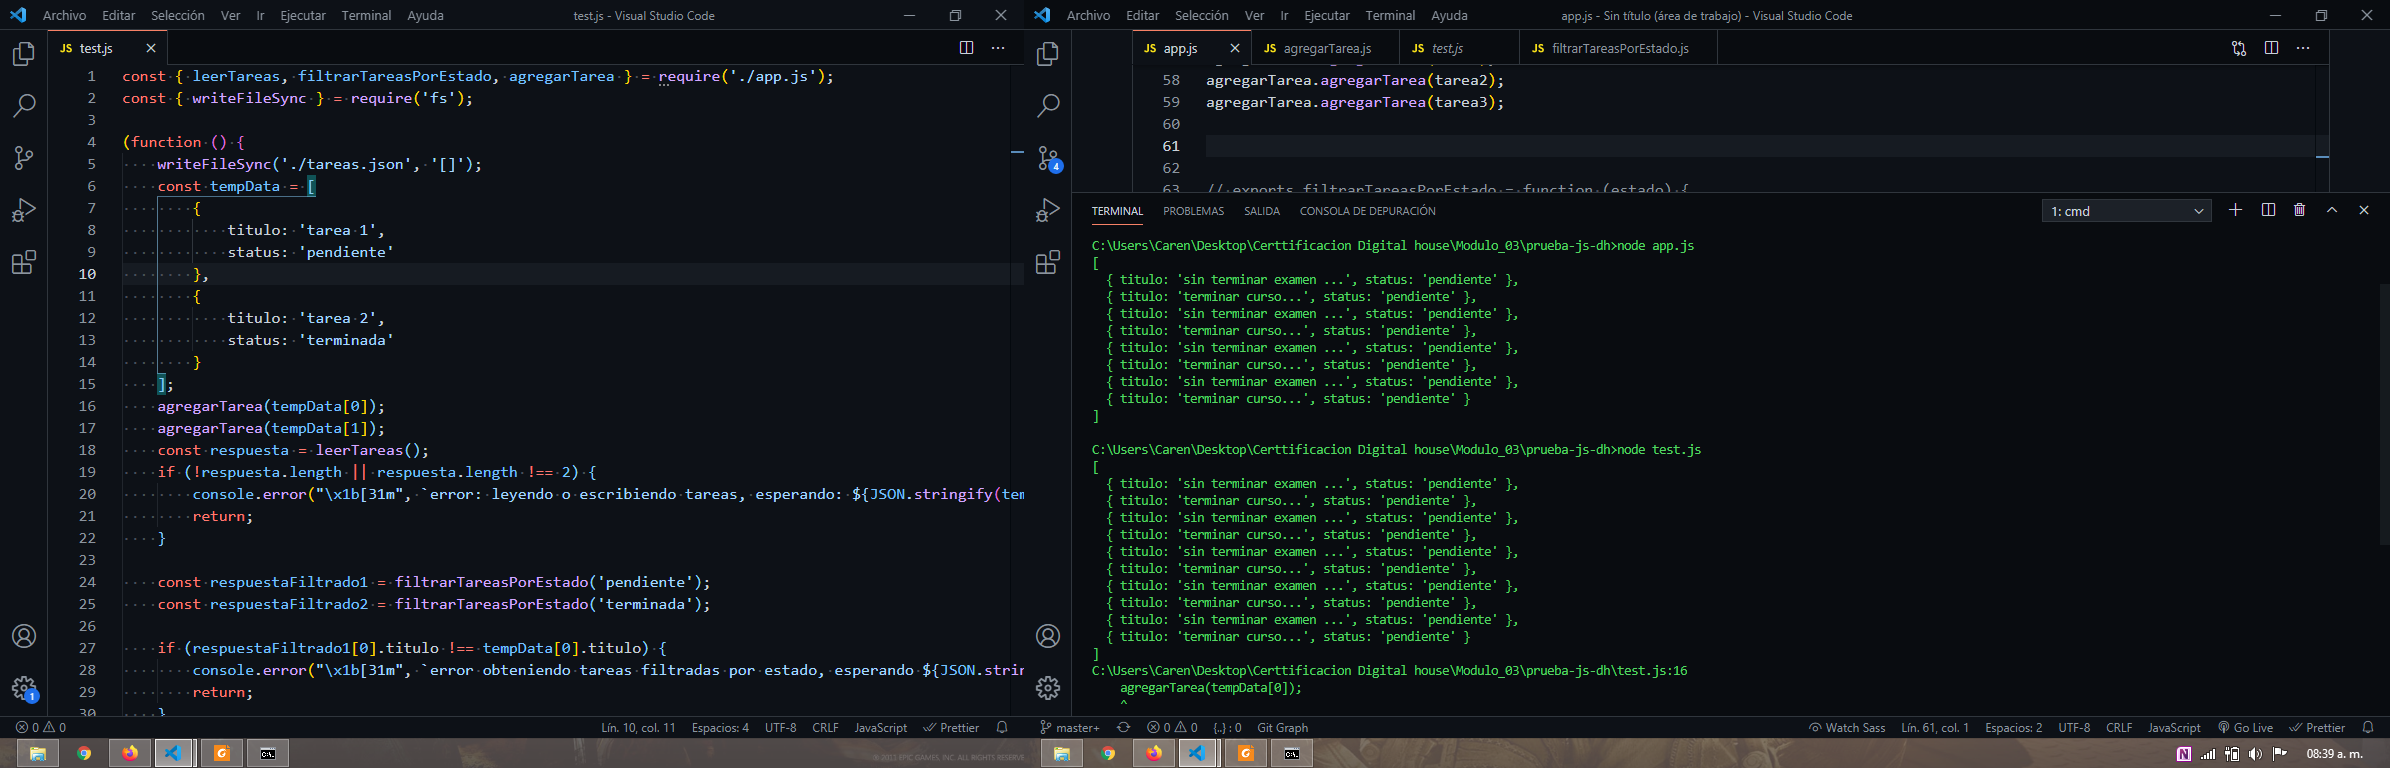
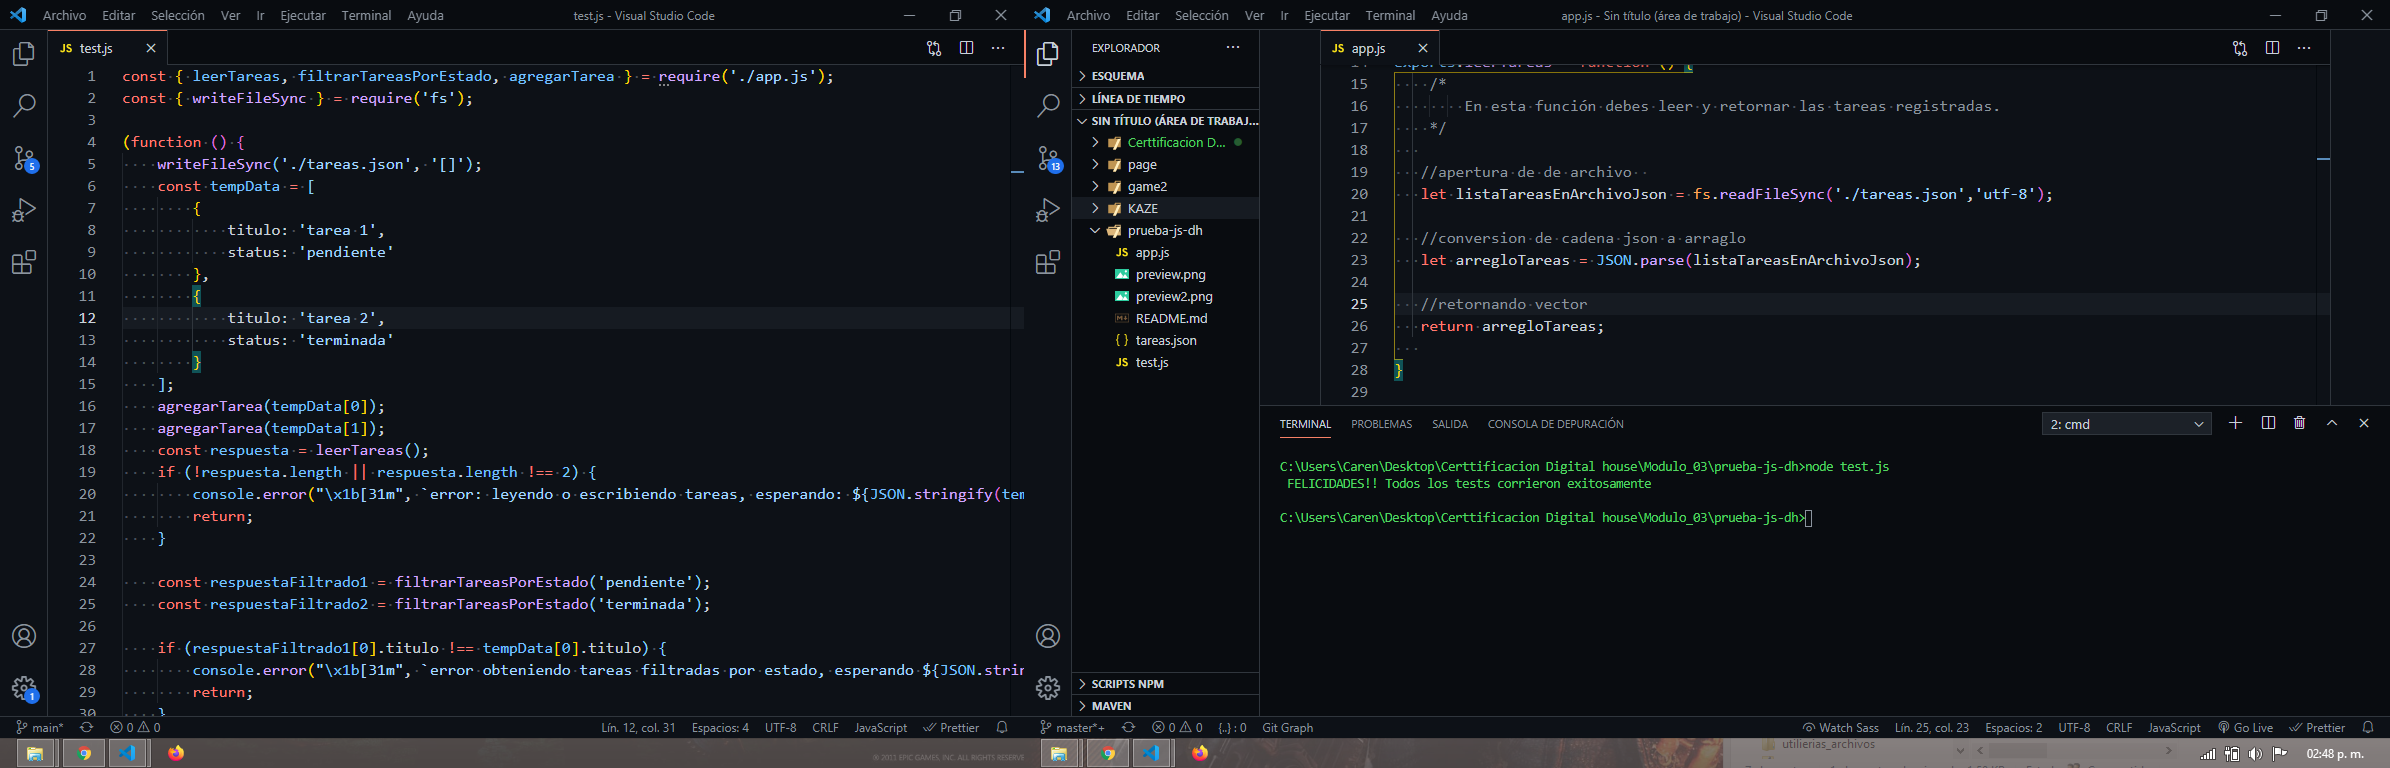
'version_corregida'

diff --git a/app.js b/app.js
@@ -7,72 +7,65 @@
          )
 */
 
-const leerTareas = require('./leerTareas');
-const agregarTarea = require('./agregarTarea');
-const filtrarTareasPorEstado = require('./filtrarTareasPorEstado');
 
-// exports.leerTareas = function () {
-//     /*
-//         En esta función debes leer y retornar las tareas registradas.
-//     */
+const fs = require('fs');
 
-//    let listaTareas = fs.readFileSync('./tareas.json','utf-8');
 
-//    return listaTareas;
+exports.leerTareas = function () {
+    /*
+        En esta función debes leer y retornar las tareas registradas.
+    */
+   
+   //apertura de de archivo  
+   let listaTareasEnArchivoJson = fs.readFileSync('./tareas.json','utf-8');
 
-// }
+   //conversion de cadena json a arraglo
+   let arregloTareas = JSON.parse(listaTareasEnArchivoJson);
 
-leerTareas.leerTareas();
+   //retornando vector
+   return arregloTareas;
+   
+}
 
-// exports.agregarTarea = function (tarea) {
-//     /*
-//         Registra y guarda una nueva tarea.
-//     */
-//     let tareasTmp = leerTareas(); 
+
+exports.agregarTarea = function (tarea) {
+    /*
+        Registra y guarda una nueva tarea.  
+    */
     
-//     let tareasDeArchivo = JSON.parse(tareasTmp);
+    //apertura de de archivo  
+   let listaTareasEnArchivoJson = fs.readFileSync('./tareas.json','utf-8');
+    
+    //conversion de cadena json a arraglo
+   let arregloTareas = JSON.parse(listaTareasEnArchivoJson);
 
-//     tareasDeArchivo.push(tarea);
+    //agregado de nueva tarea
+   arregloTareas.push(tarea);
 
-//     JSON.stringify(tareasDeArchivo);
+    //convercion de arregloTareas a cadena json 
+    let cadenaJson = JSON.stringify(arregloTareas);
 
-// }
+    //escritura de archivo json con cadenaJson
+    fs.writeFileSync('./tareas.json', cadenaJson);
 
+}
 
-let tarea = {
-      titulo: "hacer examen...",
-      status: "terminada",
-};
-
-let tarea2 = {
-  titulo: "sin terminar examen ...",
-  status: "pendiente",
-};
-
-
-let tarea3 = {
-  titulo: "terminar curso...",
-  status: "pendiente",
-};
-
-agregarTarea.agregarTarea(tarea);
-agregarTarea.agregarTarea(tarea2);
-agregarTarea.agregarTarea(tarea3);
+exports.filtrarTareasPorEstado = function (estado) {
+    /*
+        En esta función debes de leer las tareas y retornar las que tengan el estado que se
+        manda en el parametro.
+    */
+   
+   //apertura de de archivo  
+   let listaTareasEnArchivoJson = fs.readFileSync('./tareas.json','utf-8');
+   //conversion de cadena json a arraglo
+   let arregloTareas = JSON.parse(listaTareasEnArchivoJson);
+   //filtrado de datos
+   let objetosFiltrados = arregloTareas.filter(tarea=> tarea.status == estado )
 
 
+   return objetosFiltrados;
 
-// exports.filtrarTareasPorEstado = function (estado) {
-//     /*
-//         En esta función debes de leer las tareas y retornar las que tengan el estado que se
-//         manda en el parametro.
-//     */
-//    let tareasTmp = leerTareas(); 
+}
 
-//    let tareasNuevas = tareasTmp.find( function (tarea) {
-//         return tarea.estado == estado;
-//    });
-
-// }
-
-filtrarTareasPorEstado.filtrarTareasPorEstado("pendiente");
 
